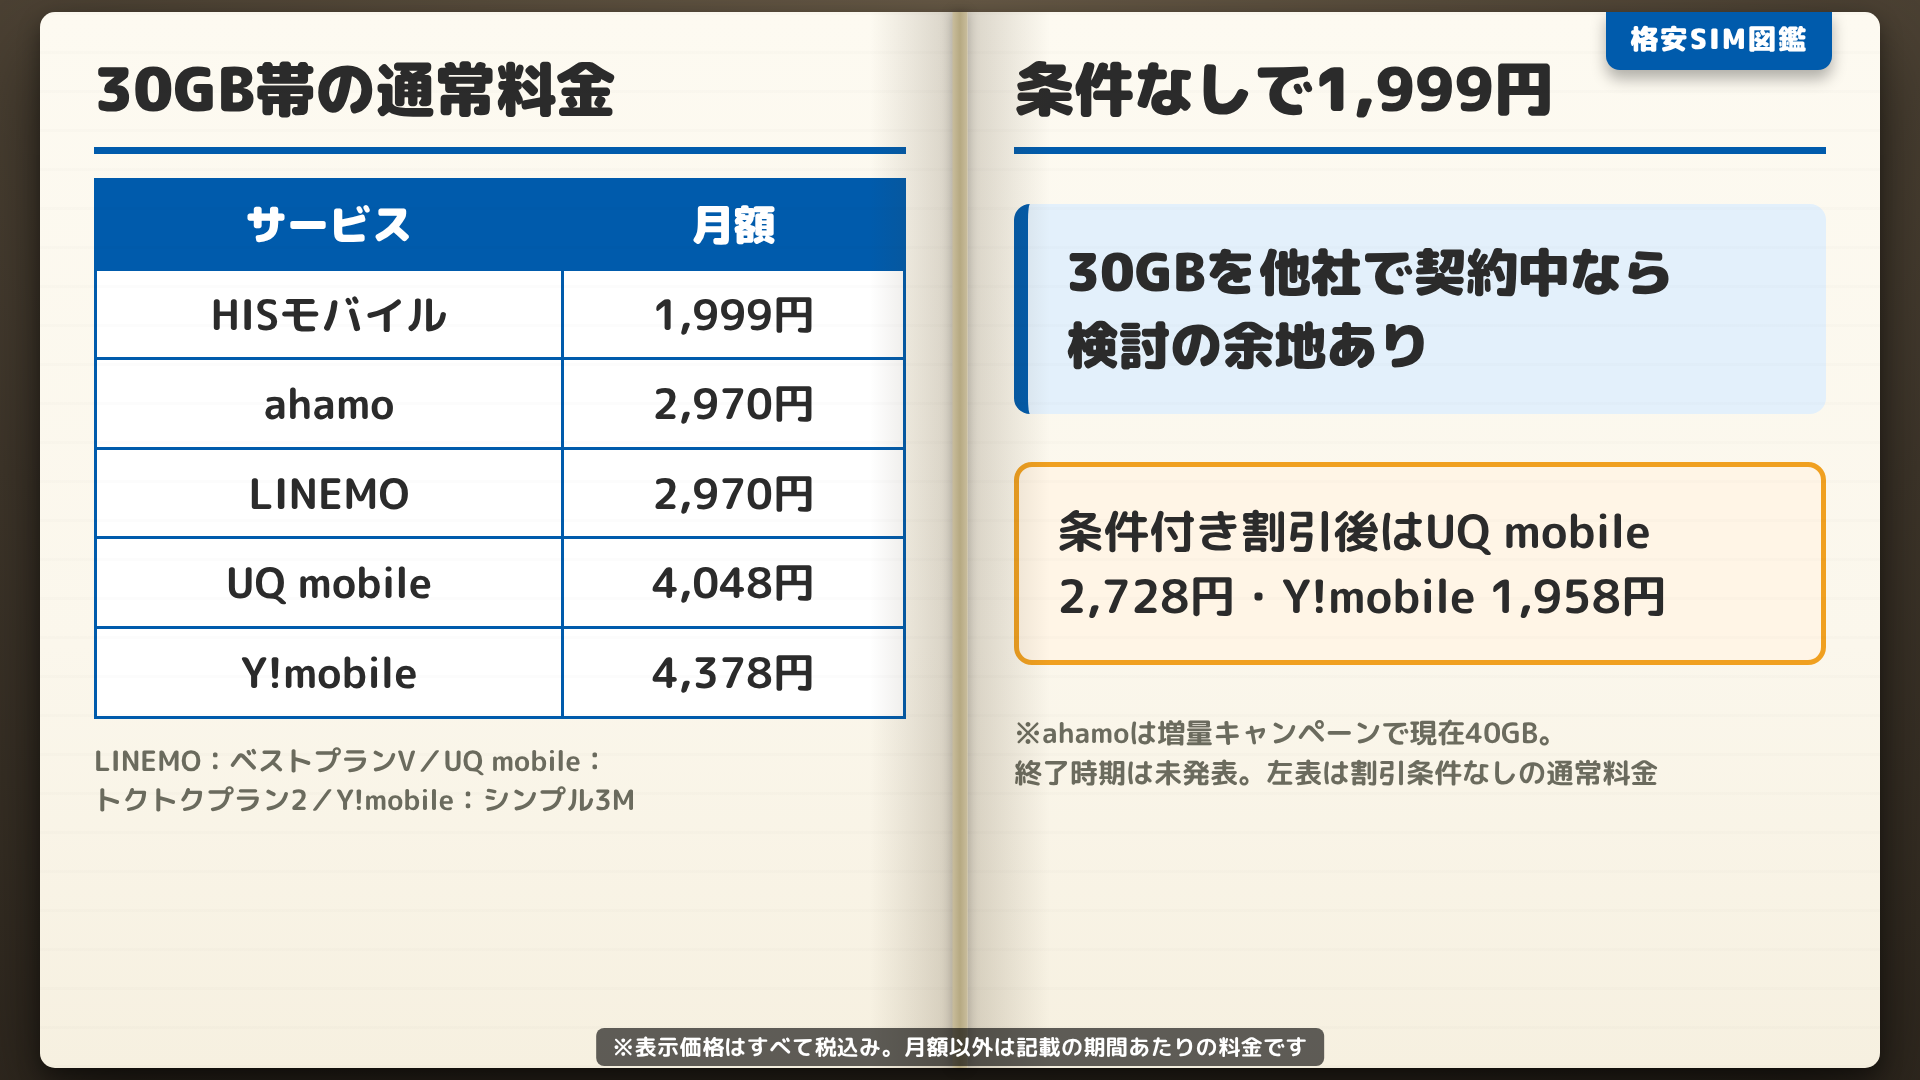
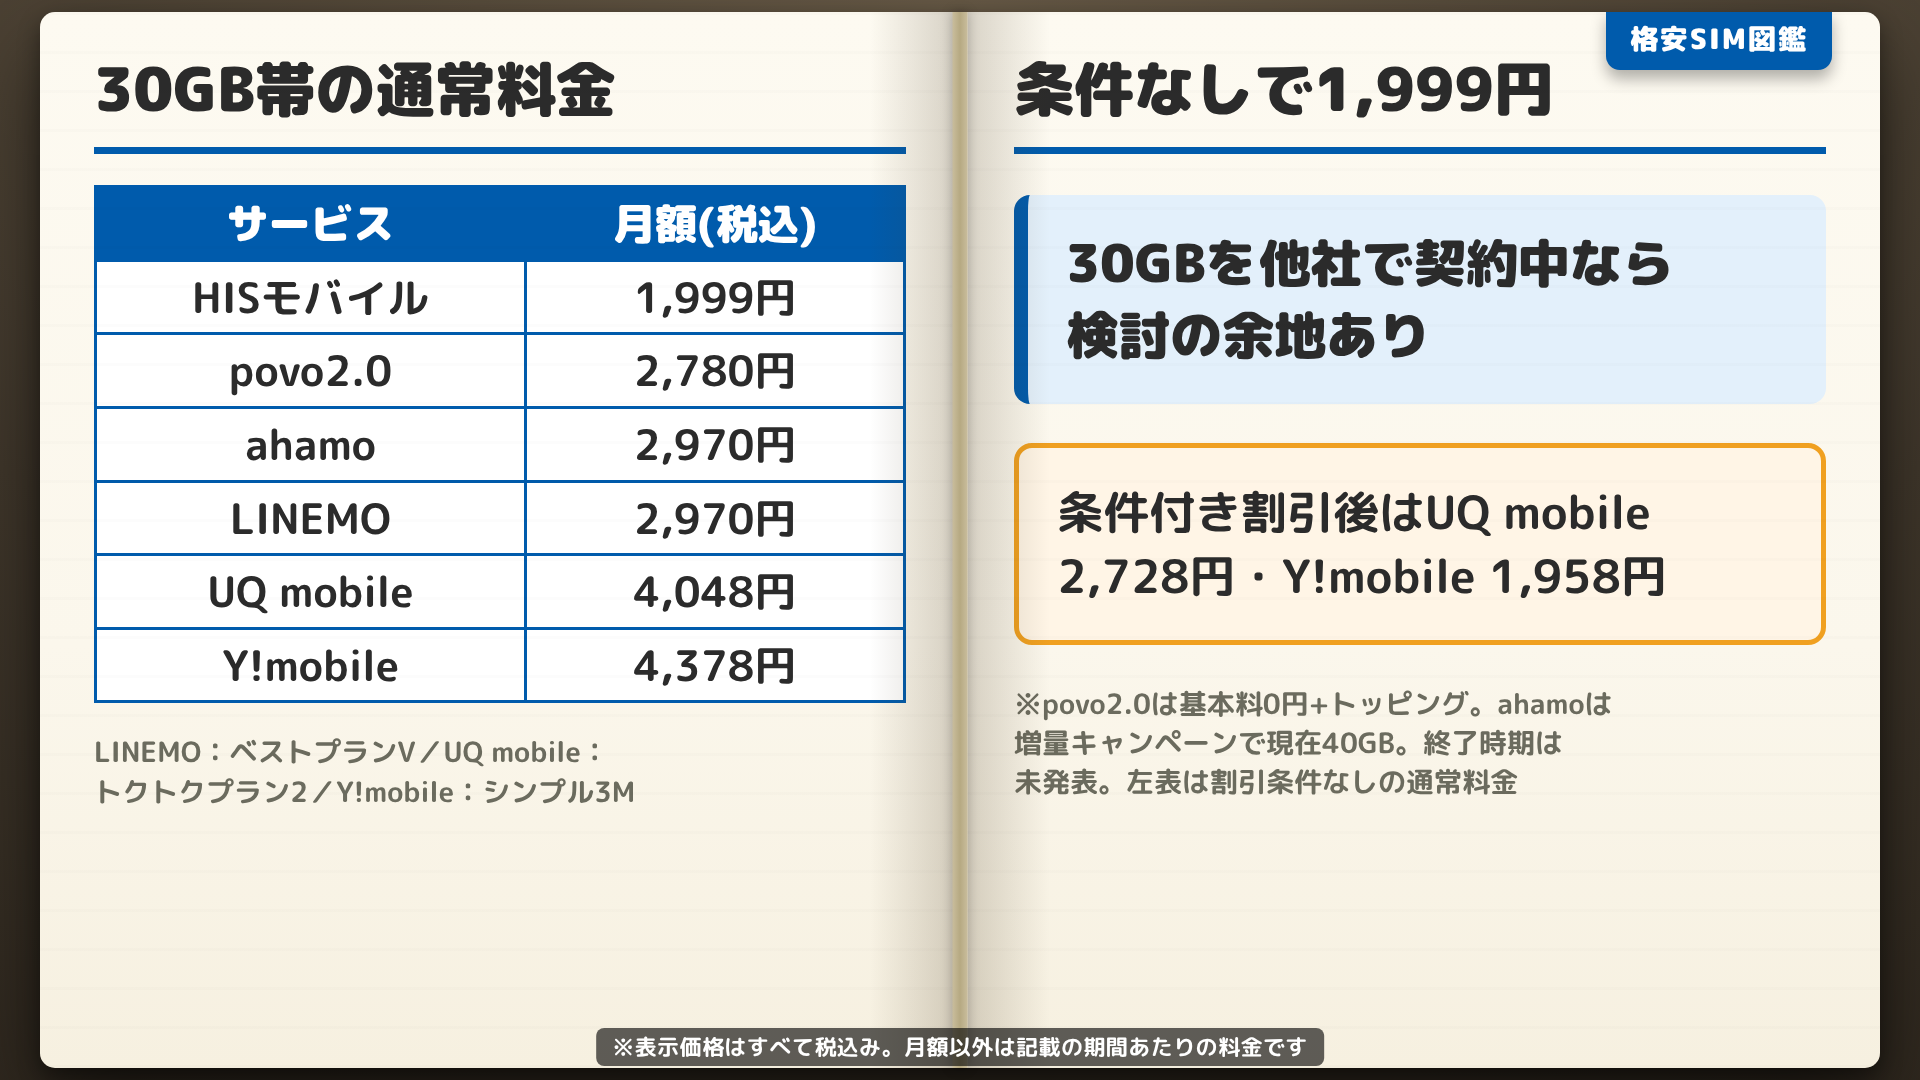
台本改修によるスライド修正

Changed region(s): [[0.5312, 0.1833, 0.9688, 0.7333], [0.0312, 0.1528, 0.4688, 0.7639]]

diff --git a/slides.html b/slides.html
@@ -26,7 +26,7 @@
 <!-- Slide ID: 6-1 -->
 <div class="slide-container" style="--brand:#005bac;--brand-deep:#00447f;--brand-soft:#e3f0fb"><div class="book"><div class="spine"></div><div class="page left"><div class="page-head"><span style="white-space:nowrap">HISモバイル</span>とは</div><div class="page-body "><div class="logos"><img src="public/images/logo/hismobile_logo.png" alt="HISモバイル" class="" style=""></div><div class="lead">旅行会社のH.I.S.グループが運営するMVNO</div></div></div><div class="page right"><span class="index-tab">格安SIM図鑑</span><div class="page-head">通信のしくみ</div><div class="page-body "><ul class="rows"><li><span class="badge">1</span><div class="tx">設備・システムは日本通信が提供</div></li><li><span class="badge">2</span><div class="tx">ドコモ回線のみ。回線は選べない</div></li></ul><div class="lead"><span style="white-space:nowrap">自由自在3.0</span>は<span style="white-space:nowrap">9月17日</span>受付開始予定</div></div></div></div></div>
 <!-- Slide ID: 7 -->
-<div class="slide-container price-note" style="--brand:#005bac;--brand-deep:#00447f;--brand-soft:#e3f0fb"><div class="book"><div class="spine"></div><div class="page left"><div class="page-head">小容量は据え置き</div><div class="page-body "><table class="sheet"><thead><tr><th>容量</th><th>月額料金</th></tr></thead><tbody><tr><td><span style="white-space:nowrap">100MB</span></td><td><span style="white-space:nowrap">280円</span></td></tr><tr><td><span style="white-space:nowrap">1GB</span></td><td><span style="white-space:nowrap">550円</span></td></tr><tr><td><span style="white-space:nowrap">3GB</span></td><td><span style="white-space:nowrap">770円</span></td></tr><tr><td><span style="white-space:nowrap">7GB</span></td><td><span style="white-space:nowrap">990円</span></td></tr></tbody></table><div class="lead"><span style="white-space:nowrap">100MB</span>〜<span style="white-space:nowrap">7GB</span>は変化なし</div></div></div><div class="page right"><span class="index-tab">格安SIM図鑑</span><div class="page-head"><span style="white-space:nowrap">10GB</span>以上は値下げ</div><div class="page-body "><table class="sheet"><thead><tr><th>容量</th><th>2.0 → 3.0</th></tr></thead><tbody><tr><td><span style="white-space:nowrap">10GB</span></td><td><span style="white-space:nowrap">1,340円</span> → <span style="white-space:nowrap">1,299円</span></td></tr><tr><td><span style="white-space:nowrap">20GB</span></td><td><span style="white-space:nowrap">2,090円</span> → <span style="white-space:nowrap">1,699円</span></td></tr><tr><td><span style="white-space:nowrap">30GB</span></td><td><span style="white-space:nowrap">2,970円</span> → <span style="white-space:nowrap">1,999円</span></td></tr></tbody></table><div class="lead"><span style="white-space:nowrap">30GB</span>は毎<span style="white-space:nowrap">月971円</span>の値下げ</div></div></div></div></div>
+<div class="slide-container price-note" style="--brand:#005bac;--brand-deep:#00447f;--brand-soft:#e3f0fb"><div class="book"><div class="spine"></div><div class="page left"><div class="page-head">小容量は据え置き</div><div class="page-body "><table class="sheet"><thead><tr><th>容量</th><th>月額料金(税込)</th></tr></thead><tbody><tr><td><span style="white-space:nowrap">100MB</span></td><td><span style="white-space:nowrap">280円</span></td></tr><tr><td><span style="white-space:nowrap">1GB</span></td><td><span style="white-space:nowrap">550円</span></td></tr><tr><td><span style="white-space:nowrap">3GB</span></td><td><span style="white-space:nowrap">770円</span></td></tr><tr><td><span style="white-space:nowrap">7GB</span></td><td><span style="white-space:nowrap">990円</span></td></tr></tbody></table><div class="lead"><span style="white-space:nowrap">100MB</span>〜<span style="white-space:nowrap">7GB</span>は変化なし</div></div></div><div class="page right"><span class="index-tab">格安SIM図鑑</span><div class="page-head"><span style="white-space:nowrap">10GB</span>以上は値下げ</div><div class="page-body "><table class="sheet"><thead><tr><th>容量</th><th>2.0 → 3.0</th></tr></thead><tbody><tr><td><span style="white-space:nowrap">10GB</span></td><td><span style="white-space:nowrap">1,340円</span> → <span style="white-space:nowrap">1,299円</span></td></tr><tr><td><span style="white-space:nowrap">20GB</span></td><td><span style="white-space:nowrap">2,090円</span> → <span style="white-space:nowrap">1,699円</span></td></tr><tr><td><span style="white-space:nowrap">30GB</span></td><td><span style="white-space:nowrap">2,970円</span> → <span style="white-space:nowrap">1,999円</span></td></tr></tbody></table><div class="lead"><span style="white-space:nowrap">30GB</span>は毎<span style="white-space:nowrap">月971円</span>の値下げ</div></div></div></div></div>
 <!-- Slide ID: 8 -->
 <div class="slide-container" style="--brand:#005bac;--brand-deep:#00447f;--brand-soft:#e3f0fb"><div class="book"><div class="spine"></div><div class="page left"><div class="page-head">新特典：海外eSIM</div><div class="page-body "><div class="logos"><img src="public/images/logo/hismobile_logo.png" alt="HISモバイル" class="" style=""></div><div class="lead">HIS Travel eSIM powered by VOYE</div><div class="lead">1電話番号につき年1回無料。新規・既存とも対象</div></div></div><div class="page right"><span class="index-tab">格安SIM図鑑</span><div class="page-head">年1回、無料に</div><div class="page-body "><div class="emph" style="padding:28px 44px">海外130以上の国・地域<br><span class="big"><span style="white-space:nowrap">4GB</span>・<span style="white-space:nowrap">15日間</span></span></div><div class="warn">提供開始は<span style="white-space:nowrap">10月1日</span>予定。<span style="white-space:nowrap">9月17日</span>とは別日</div></div></div></div></div>
 <!-- Slide ID: 9 -->
@@ -34,7 +34,7 @@
 <!-- Slide ID: 10-0 -->
 <div class="slide-container price-note" style="--brand:#005bac;--brand-deep:#00447f;--brand-soft:#e3f0fb"><div class="book"><div class="spine"></div><div class="page left"><div class="divider"><div class="kicker">CHAPTER</div><div class="num">2</div><div class="seal">FILE No.02</div></div></div><div class="page right"><span class="index-tab">格安SIM図鑑</span><div class="page-body "><div class="big-title"><span style="white-space:nowrap">30GB</span><br><span style="white-space:nowrap">2,000円</span>の壁が<br>破られた</div><div class="lead">割引条件なしの通常料金で比較</div></div></div></div></div>
 <!-- Slide ID: 11 -->
-<div class="slide-container price-note" style="--brand:#005bac;--brand-deep:#00447f;--brand-soft:#e3f0fb"><div class="book"><div class="spine"></div><div class="page left"><div class="page-head"><span style="white-space:nowrap">30GB</span>帯の通常料金</div><div class="page-body "><table class="sheet"><thead><tr><th>サービス</th><th>月額</th></tr></thead><tbody><tr><td><span style="white-space:nowrap">HISモバイル</span></td><td><span style="white-space:nowrap">1,999円</span></td></tr><tr><td>ahamo</td><td><span style="white-space:nowrap">2,970円</span></td></tr><tr><td>LINEMO</td><td><span style="white-space:nowrap">2,970円</span></td></tr><tr><td>UQ mobile</td><td><span style="white-space:nowrap">4,048円</span></td></tr><tr><td>Y!mobile</td><td><span style="white-space:nowrap">4,378円</span></td></tr></tbody></table><div class="note" style="font-size:28px">LINEMO：ベストプランV／UQ mobile：トクトクプラン2／Y!mobile：シンプル3M</div></div></div><div class="page right"><span class="index-tab">格安SIM図鑑</span><div class="page-head">条件なしで<span style="white-space:nowrap">1,999円</span></div><div class="page-body "><div class="lead"><span style="white-space:nowrap">30GB</span>を他社で契約中なら検討の余地あり</div><div class="warn">条件付き割引後はUQ mobile <span style="white-space:nowrap">2,728円</span>・Y!mobile <span style="white-space:nowrap">1,958円</span></div><div class="note" style="font-size:28px">※ahamoは増量キャンペーンで現在<span style="white-space:nowrap">40GB</span>。終了時期は未発表。左表は割引条件なしの通常料金</div></div></div></div></div>
+<div class="slide-container price-note" style="--brand:#005bac;--brand-deep:#00447f;--brand-soft:#e3f0fb"><div class="book"><div class="spine"></div><div class="page left"><div class="page-head"><span style="white-space:nowrap">30GB</span>帯の通常料金</div><div class="page-body "><table class="sheet"><thead><tr><th style="padding:8px 18px">サービス</th><th style="padding:8px 18px">月額(税込)</th></tr></thead><tbody><tr><td style="padding:8px 18px"><span style="white-space:nowrap">HISモバイル</span></td><td style="padding:8px 18px"><span style="white-space:nowrap">1,999円</span></td></tr><tr><td style="padding:8px 18px">povo2.0</td><td style="padding:8px 18px"><span style="white-space:nowrap">2,780円</span></td></tr><tr><td style="padding:8px 18px">ahamo</td><td style="padding:8px 18px"><span style="white-space:nowrap">2,970円</span></td></tr><tr><td style="padding:8px 18px">LINEMO</td><td style="padding:8px 18px"><span style="white-space:nowrap">2,970円</span></td></tr><tr><td style="padding:8px 18px">UQ mobile</td><td style="padding:8px 18px"><span style="white-space:nowrap">4,048円</span></td></tr><tr><td style="padding:8px 18px">Y!mobile</td><td style="padding:8px 18px"><span style="white-space:nowrap">4,378円</span></td></tr></tbody></table><div class="note" style="font-size:28px">LINEMO：ベストプランV／UQ mobile：トクトクプラン2／Y!mobile：シンプル3M</div></div></div><div class="page right"><span class="index-tab">格安SIM図鑑</span><div class="page-head">条件なしで<span style="white-space:nowrap">1,999円</span></div><div class="page-body "><div class="lead"><span style="white-space:nowrap">30GB</span>を他社で契約中なら検討の余地あり</div><div class="warn">条件付き割引後はUQ mobile <span style="white-space:nowrap">2,728円</span>・Y!mobile <span style="white-space:nowrap">1,958円</span></div><div class="note" style="font-size:28px">※povo2.0は基本料0円+トッピング。ahamoは増量キャンペーンで現在<span style="white-space:nowrap">40GB</span>。終了時期は未発表。左表は割引条件なしの通常料金</div></div></div></div></div>
 <!-- Slide ID: 12-0 -->
 <div class="slide-container" style="--brand:#005bac;--brand-deep:#00447f;--brand-soft:#e3f0fb"><div class="book"><div class="spine"></div><div class="page left"><div class="divider"><div class="kicker">CHAPTER</div><div class="num">3</div><div class="seal">FILE No.03</div></div></div><div class="page right"><span class="index-tab">格安SIM図鑑</span><div class="page-body "><div class="big-title">他の格安SIMと<br>比べて本当に<br>安いのか</div><div class="lead">容量・通話・繰越で選ぶ</div></div></div></div></div>
 <!-- Slide ID: 13 -->
